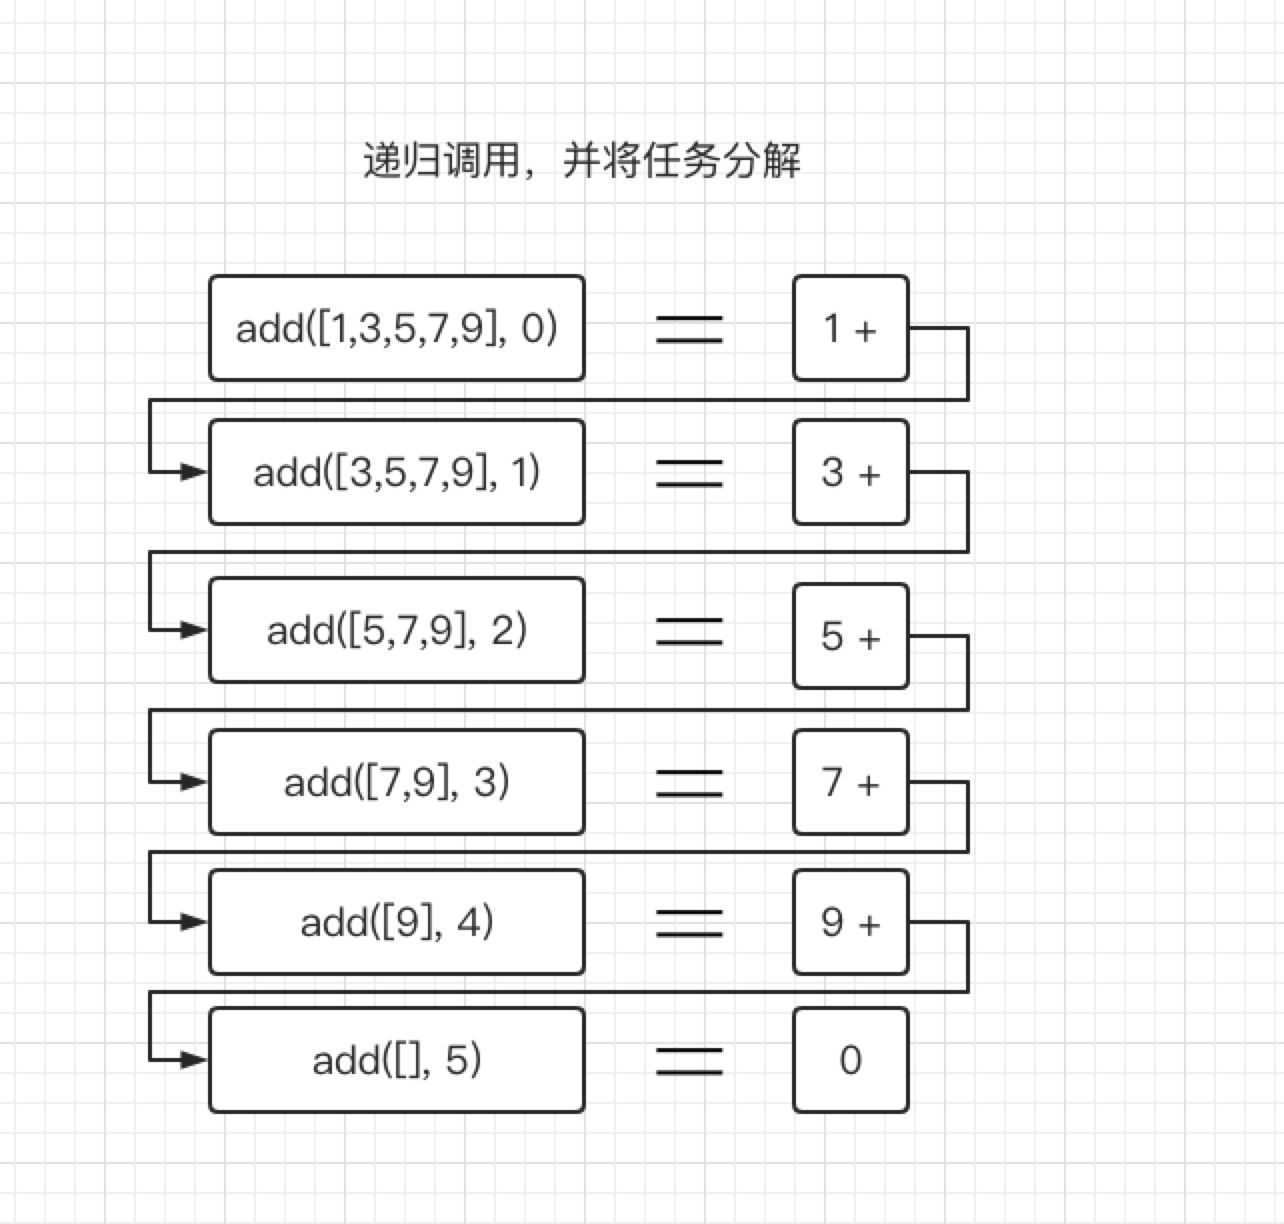
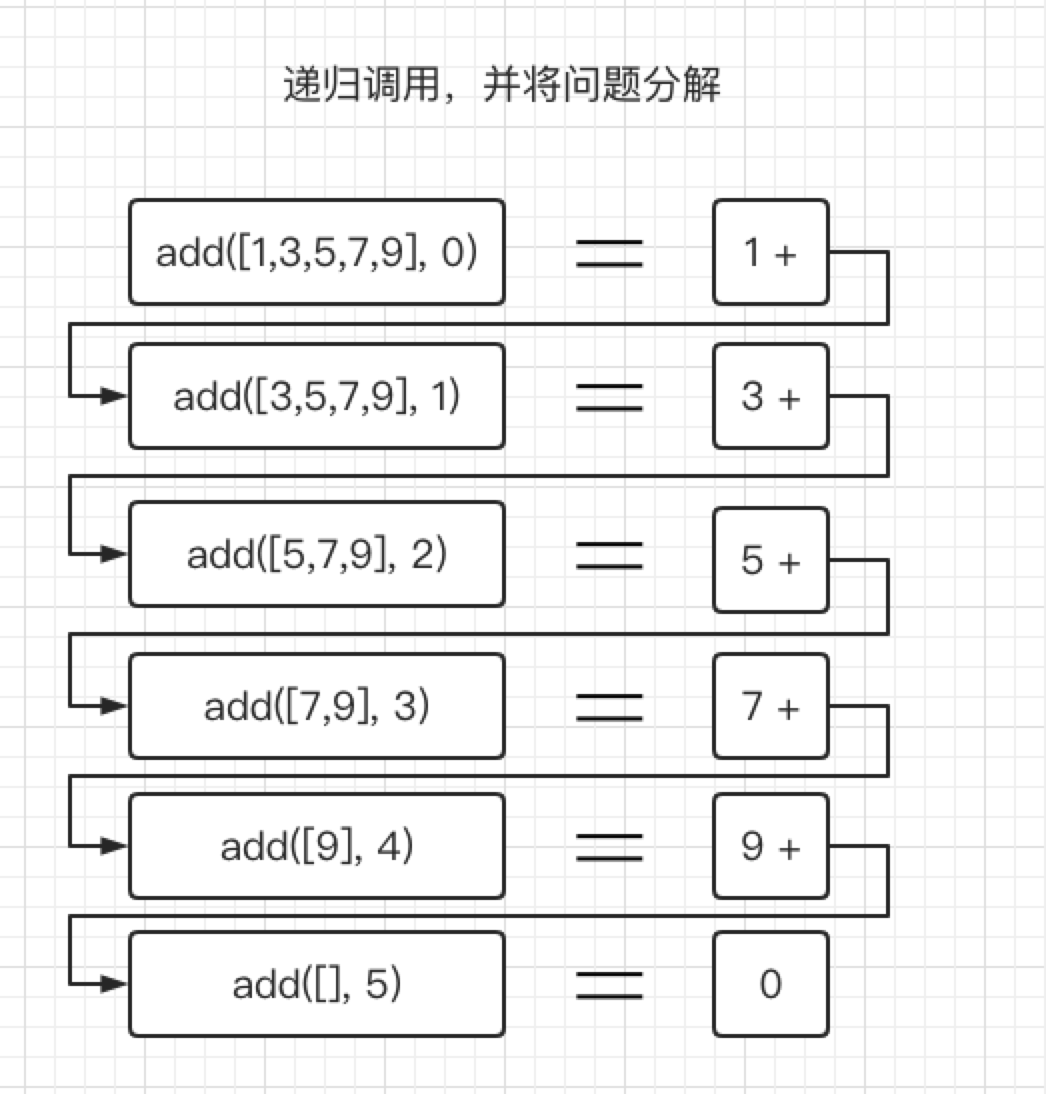
什么是递归

diff --git a/DataStructure/递归/递归.md b/DataStructure/递归/递归.md
@@ -1,0 +1,51 @@
+### 递归
+
+#### 递归介绍
+递归是一个调用自身的函数, 它与其它函数没有区别, 只不过是调用自己(这也是初学递归不能理解的地方);
+在通过调用自身的过程中, 我们需要把原问题分解成更小的子问题, 直到问题无法在被分解, 并将这些子问题的结果合并形成该问题的最终结果;
+
+简而言之: 递归就是将一个问题分解为更小的子问题, 直到无法在分为。
+
+#### 数组之和了解递归程序
+
+假设现在我们有一组数据: [1, 3, 5, 7, 9], 我们想要把这一组数据进行累加, 并将结果返回去。
+通常, 我们会使用一个循环来将一组数据进行累加, 但是现在假设我们没有循环可以使用, 我们如何去实现一组数据之和?
+
+此时, 我们创建一个方法, 接收两个参数, 然后方法返回相加结果值, 之后把结果值在放入参数中和新的数组中的值进行累加, 则会是下面这种结果
+
+```text
+    total = (1 + (3 + (5 + (7 + 9))))
+    total = (1 + (3 + (5 + 16))
+    total = (1 + (3 + 21))
+    total = (1 + 24)
+    total = 25
+```
+
+如何把上面的想法通过Java程序来实现呢?
+
+```java
+public class CalculatingNumbersSum {
+    public int add(Integer[] numbers) {
+        return add(numbers, 0);
+    }
+    private int add(Integer[] numbers, int index) {
+        if (numbers.length == index)
+            return 0;
+        return numbers[index] + add(numbers, index + 1);
+    }
+    public static void main(String[] args) {
+        Integer[] numbers = {1, 3, 5, 7, 9};
+        System.out.println(new CalculatingNumbersSum().add(numbers));
+    }
+}
+```
+编写递归程序最重要的两个点在于:
+1. 处理当前子问题, 并将当前子问题在进行分解;
+2. 检查当前子问题是否足够小, 如果不能再分解时候, 则需要提供一个出口退出;
+
+
+下图是递归调用过程, 每次递归调用时都会解决一个较小的问题, 直到问题无法在减小的程度为止;
+![递归调用过程](https://github.com/basebase/document/blob/master/DataStructure/%E9%80%92%E5%BD%92/%E5%9B%BE%E7%89%87/%E9%80%92%E5%BD%92%E8%B0%83%E7%94%A8%E8%BF%87%E7%A8%8B.png?raw=true)
+
+当我们的问题达到无法在减小的程度时, 我们开始将每个子问题的解决方案组合在一起, 直到解决了最初的问题为止。下图展示的是递归返回子问题结果并形成最终结果的过程;
+![递归返回过程](https://github.com/basebase/document/blob/master/DataStructure/%E9%80%92%E5%BD%92/%E5%9B%BE%E7%89%87/%E9%80%92%E5%BD%92%E8%BF%94%E5%9B%9E%E8%BF%87%E7%A8%8B.png?raw=true)
